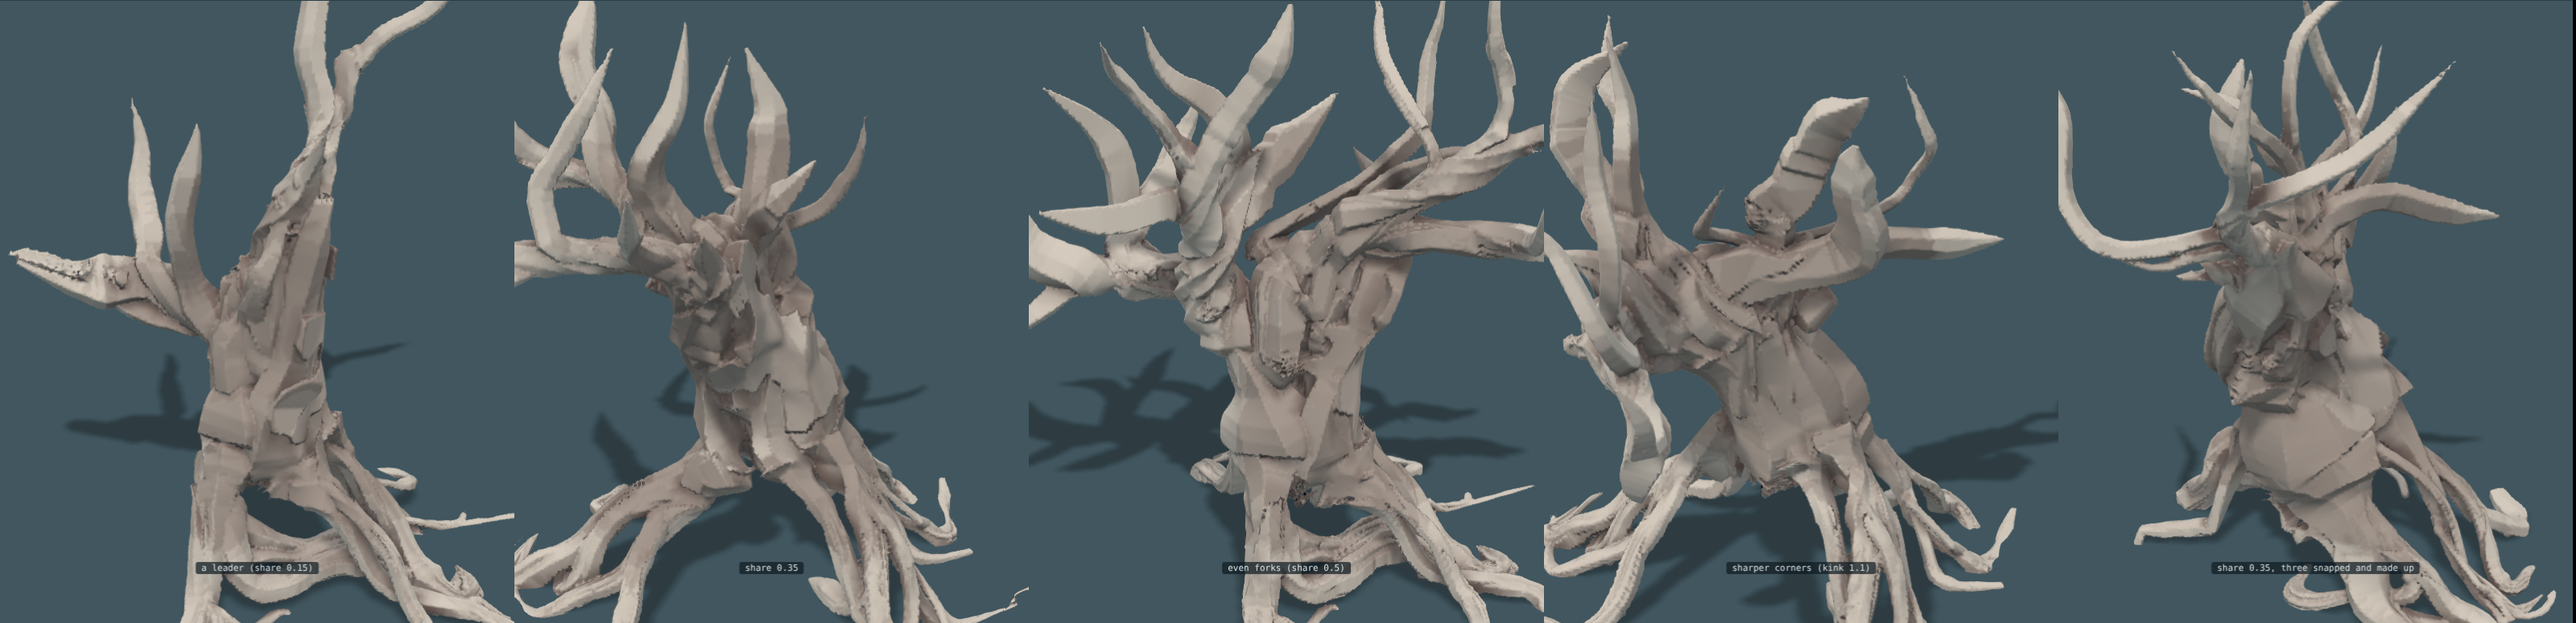
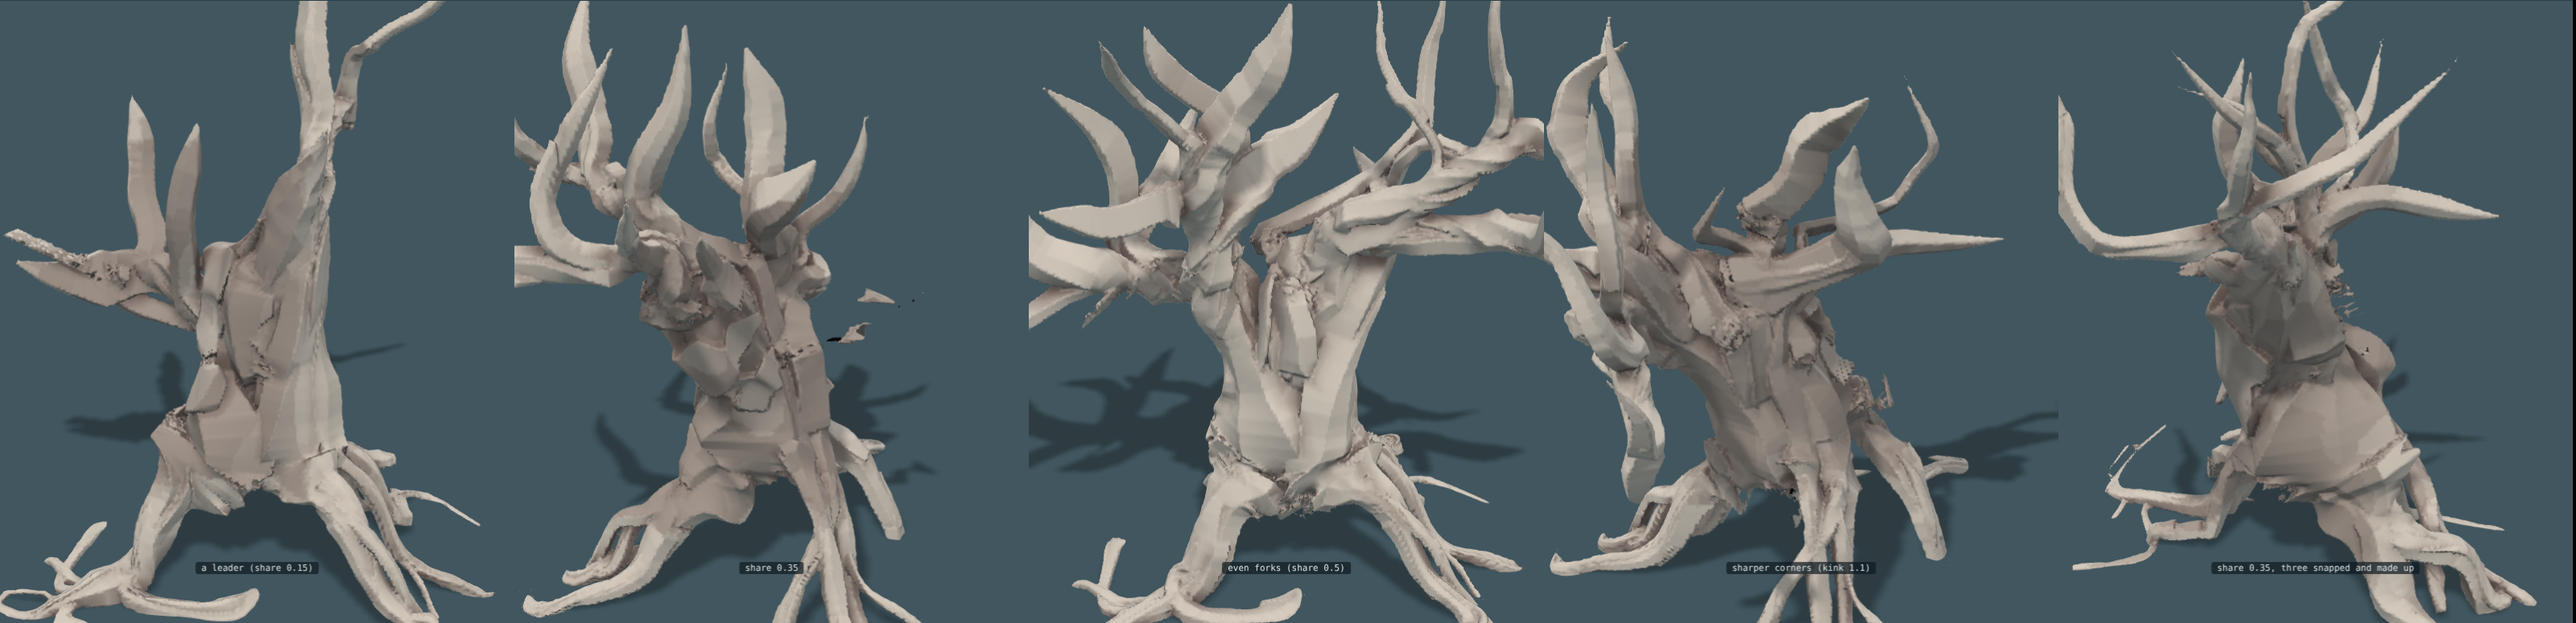
The long detours: a root is forgiven only a fifth of what it spends coming down, and turns at the edge of its ground
Claude-Session: https://claude.ai/code/session_0192rgp75jGkttZXf7hEakip

Changed region(s): [[0.0, 0.0, 1.0, 1.0]]

diff --git a/trees.js b/trees.js
@@ -30,7 +30,7 @@
   function frames(P) { let N = null; return P.map((p, i) => { const T = unit([0, 1, 2].map((k) => P[Math.min(P.length - 1, i + 1)][k] - P[Math.max(0, i - 1)][k])); N = unit((N || [1, 0, 0.2]).map((v, k, A) => v - T[k] * dot(A, T))); return [T, N, cross(T, N)]; }); }
 
   function grow(recipe) {
-    const P = Object.assign({ strands: 8, fill: 0.75, uneven: 0.5, twist: 0.5, taut: 0.3, stiff: 0.05, hug: 0.15, bind: 0.004, roots: 0.6, wind: 1.1, mixed: false, lmax: 0, set: 0, swell: 1, feet: 0, lap: 0, ground: null, down: 0.6, crease: 3.2, seam: 0.55, seams: 7, hem: 2.2, leg: 0.16, knuckle: 0.55, knee: 0.3, sinew: 0.17, apart: 1, bury: 0, rank: 2.6, slack: 0.11, press: 1.3, forkBy: 0.42, weave: 1, bridge: 2.2, toe: 0.13, tip: 0.26, snake: 1, air: 0.18, reach: 0.6, eyes: 0.4, hang: 0.3, bold: 0.35, brace: 0.12, bite: 1.8, forks: 1, dive: 0.12, slant: 0.75, clumps: 3, cling: 0.88, grip: 0.5, collar: 2, flare: 0.07, waste: 0.25, clear: 1, settle: 0, giving: 0.75, passes: 1500, ds: 0.035, seed: 1, trunk: [[0, 0.14, 0, 0.27], [0, 1.6, 0, 0.1]], limbs: [], orb: null }, recipe);
+    const P = Object.assign({ strands: 8, fill: 0.75, uneven: 0.5, twist: 0.5, taut: 0.3, stiff: 0.05, hug: 0.15, bind: 0.004, roots: 0.6, wind: 1.1, mixed: false, lmax: 0, set: 0, swell: 1, feet: 0, lap: 0, ground: null, down: 0.6, crease: 3.2, seam: 0.55, seams: 7, hem: 2.2, leg: 0.16, knuckle: 0.55, knee: 0.3, sinew: 0.17, apart: 1, bury: 0, forgive: 0.22, rank: 2.6, slack: 0.11, press: 1.3, forkBy: 0.42, weave: 1, bridge: 2.2, toe: 0.13, tip: 0.26, snake: 1, air: 0.18, reach: 0.6, eyes: 0.4, hang: 0.3, bold: 0.35, brace: 0.12, bite: 1.8, forks: 1, dive: 0.12, slant: 0.75, clumps: 3, cling: 0.88, grip: 0.5, collar: 2, flare: 0.07, waste: 0.25, clear: 1, settle: 0, giving: 0.75, passes: 1500, ds: 0.035, seed: 1, trunk: [[0, 0.14, 0, 0.27], [0, 1.6, 0, 0.1]], limbs: [], orb: null }, recipe);
     // The ground, if the tree is given one: any function of a place that is how far it is outside the ground (less than
     // nothing inside). Without one the ground is the level at height 0, as it always was. (A grown tree is always given one, level if nothing else, so that its roots are walked.)
     const G = P.ground, softAt = G && G.soft && P.bury ? G.soft : null, gradG = G ? (x, y, z) => { const e = 0.008; return unit([G(x + e, y, z) - G(x - e, y, z), G(x, y + e, z) - G(x, y - e, z), G(x, y, z + e) - G(x, y, z - e)]); } : null, rootPts = [];
@@ -110,7 +110,7 @@
       // That is where a root is holding on, and it is what the corner is for.
       const corners = [];
       const steepness = 0.55 + 0.9 * rw();   // no two legs come down alike: one drops, the next runs out shallow
-      let pos = p0, h = away, prog = 0, air = 0, gone = 0;
+      let pos = p0, h = away, prog = 0, air = 0, gone = 0, saved = 0;
       // A root does not taper away along its length: it keeps its weight between forks and steps down at each,
       // which is where nearly all of its thinning happens. Along a run it loses only `waste`. What it does at the
       // trunk is not taper but flare: it leaves at the trunk's own girth and is down to its running girth within
@@ -160,7 +160,7 @@
         if (!turning) { legLeft--; since++; h = tt; } else {
         for (const a of [-1.3, -0.8, -0.45, -0.18, 0, 0.18, 0.45, 0.8, 1.3]) { const c = tt.map((v, k) => v * Math.cos(a) + side[k] * Math.sin(a)), pr = pos.map((v, k) => v + c[k] * 0.07);
           const lie = 1 - Math.abs(gradG(pr[0], pr[1], pr[2])[1]);
-          const score = (hemDir ? P.hem * brink * dot(c, hemDir) : 0) + (1 - onFace) * (1 - 0.5 * brink) * (0.7 * dot(c, out) + P.down * dot(c, dn)) + onFace * 3.2 * dot(c, grip) - bold * (1 - P.hang) * 2.2 * lie * lie * (1 - onFace) + (seamWay ? P.crease * seamAmt * dot(c, seamWay) : 0) + P.apart * room(pr, rx.length - 12) / 0.22 + (Math.abs(a) < 0.2 ? 0.3 * Math.max(0, 1 - weave) : 0) - 0.22 * Math.max(0.15, 1 - 0.8 * weave) * Math.abs(a) + weave * P.snake * (0.35 + 1.25 * r()) * swing * Math.sin(a) + P.snake * 0.3 * r(); if (!best || score > best.score) best = { score, c, a }; }
+          const score = (hemDir ? P.hem * brink * dot(c, hemDir) : 0) + (1 - onFace) * (1 - 0.5 * brink) * (0.7 * dot(c, out) + P.down * dot(c, dn)) + onFace * 3.2 * dot(c, grip) - bold * (1 - P.hang) * 2.2 * lie * lie * (1 - onFace) + (seamWay ? P.crease * seamAmt * dot(c, seamWay) : 0) + P.apart * room(pr, rx.length - 12) / 0.22 - 3.5 * Math.max(0, (Math.max(Math.abs(pr[0]), Math.abs(pr[2])) - 0.68) / 0.2) + (Math.abs(a) < 0.2 ? 0.3 * Math.max(0, 1 - weave) : 0) - 0.22 * Math.max(0.15, 1 - 0.8 * weave) * Math.abs(a) + weave * P.snake * (0.35 + 1.25 * r()) * swing * Math.sin(a) + P.snake * 0.3 * r(); if (!best || score > best.score) best = { score, c, a }; }
           h = best.c;
           if (r() > hold) swing = -swing;
           legLeft = Math.max(2, Math.round((onFace > 0.5 ? P.brace * (0.6 + 0.9 * r()) : P.leg * (0.75 + 1.1 * heavy) * (1 + 0.35 * Math.min(1, weave)) * (0.6 + 0.8 * r())) / ds));
@@ -209,7 +209,9 @@
         if (Math.abs(nx[0]) > 0.92 || Math.abs(nx[2]) > 0.92) break;   // a root stays on the ground it was given
         // coming down to the ground counts little toward its length. Going down a face is not free any more: it was,
         // and a root that went over a lip then ran on to the bottom of the cliff however far that was.
-        hooked = hook; const coming = G(nx[0], nx[1], nx[2]) > 3 * rad, working = onFace > 0.5 && bold < 1; prog += ds * (coming ? 0.3 : working ? 0.5 : 1); gone += H(nx[0] - pos[0], nx[1] - pos[1], nx[2] - pos[2]); pos = nx; rx.push(nx); rr.push(rad); }   // (gone is real distance: counted as ds while the step also drops, the descent comes out far steeper than `slant` asks)
+        hooked = hook; const coming = G(nx[0], nx[1], nx[2]) > 3 * rad, working = onFace > 0.5 && bold < 1;
+        { const give = Math.min((1 - (coming ? 0.3 : working ? 0.5 : 1)) * ds, Math.max(0, P.forgive * len - saved)); saved += give; prog += ds - give; }
+        gone += H(nx[0] - pos[0], nx[1] - pos[1], nx[2] - pos[2]); pos = nx; rx.push(nx); rr.push(rad); }   // (gone is real distance: counted as ds while the step also drops, the descent comes out far steeper than `slant` asks)
       for (const [c, hard] of corners) for (let d = -1; d <= 1; d++) { const k = c + d; if (k >= 0 && k < rr.length) rr[k] *= 1 + P.knuckle * hard * (d ? 0.55 : 1); }
       // The buckle. A root reaches out until it finds something it can hold, and there it stays: that end is
       // tethered and the foot never moves. Afterwards the tree keeps putting length on at the foot, and the

diff --git a/LOG.md b/LOG.md
@@ -4188,3 +4188,37 @@ wood.
 
       page 9's lines, from here   a0e3772461 7aa37cf6f1 b49b812a0e 3a141a6fa2 f8630c5170
       page 7's four, unchanged    e387ada36c 17dc01b122 a61f129179 b2eac9db5f
+
+## The long detours: a root forgiven too much for coming down
+
+"There's some weird roots still though, long detours feel like something
+went wrong in the rendering." Two causes, and the first is a rule of mine
+working exactly as written and being wrong.
+
+**A root was forgiven everything it spent getting down.** Going down a face
+counted a half toward its length and going through the air a third -- put
+in so that a root leaving the level it started on would not be cut off in
+mid-air. But a bold root that goes over a cliff spends most of its run
+descending, so it arrived at the bottom with nearly its whole length
+unspent and ran it out across the flat in one straight line. That is the
+detour: a long, nearly straight, barely tapered root going nowhere, which
+reads as a fault in the drawing because there is no reason in it. It may
+be forgiven up to a fifth of its length now, and no more.
+
+**And the ground is a patch, not a world.** A root that reached the edge of
+the ground it was given stopped dead, at whatever girth it had: a cut
+stump, which is exactly what asset clipping looks like. It feels the edge
+coming from 0.68 out and turns along it now.
+
+      roots that run out of ground   10 of 154  ->  4 of 138
+      of those, still thick when they stop   2  ->  0
+
+Wrong, or not there:
+- The edge-turn is housekeeping for a sketch, not a rule about trees. On a
+  real terrain there is no edge, and the rule should go when there isn't
+  one. It is the only thing in the walk that knows the ground is a square.
+- A root that goes over a cliff still comes down because the ground falls
+  away, not because there is anything below worth reaching.
+
+      page 9's lines, from here   a0fd975885 605974eb6b 482d097487 7f4b3b56bb 1aed93441d
+      page 7's four, unchanged    e387ada36c 17dc01b122 a61f129179 b2eac9db5f
